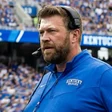
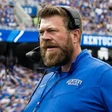
browns/hauck: fatten the face too, not just the build
The first pass widened the jaw a little and left the head reading lean on a
heavy body. The face recipe now does the work: the widening peaks across the
jaw at more than twice its old amplitude and runs on into the neck so the
head does not sit on a collar it has outgrown, a jowl bulge rounds the lower
cheek that stretching alone only squashed, a sag pushes the jaw line down
into the neck for the double chin, and a small cheek bulge fills the hollow
under the cheekbone.

The profile still crosses zero at y=210, above the cheekbones: the eyes, nose
and brow keep their spacing and their distances from each other, which is
what carries the likeness. Everything below it is fair game.

Rebuilt from the pristine frame (restored from the previous commit, per the
XMP guard) rather than stacked on the already-warped one, so the warp is
applied exactly once. Same seeded sweat, same crop boxes, same tear edges;
both cuts, the poster, the face crop and the avatars regenerated. heroes.json
unchanged. No other manager's art is touched.

Full suite: 166 passed, 4 failed -- the same pre-existing
test_preseason_baseline.py failures, unrelated to art.

Claude-Session: https://claude.ai/code/session_016KTu8fbQ7wRjJA6QXnG2px

Changed region(s): [[0.0, 0.2946, 0.7232, 0.75], [0.0536, 0.3214, 0.0804, 0.375]]

diff --git a/scripts/fatten_portrait.py b/scripts/fatten_portrait.py
@@ -294,11 +294,22 @@ RECIPES = {
             # Belly. Centred on his near side, where the gut actually sits.
             ("bulge", dict(cx=372, cy=800, rx=340, ry=310, power=1.22)),
             ("sag", dict(cx=360, cy=830, rx=300, ry=250, amp=18)),
-            # Jowls and neck only -- amp is 0 at y=212, above the cheekbones,
-            # so the eyes, nose and brow keep their spacing and he stays him.
-            ("hwiden", dict(cx=392, half=95, feather=95,
-                            amp_y=[(212, 0.0), (275, 0.08), (335, 0.12),
-                                   (400, 0.12), (470, 0.0)])),
+            # FACE. Amp is 0 at y=210, above the cheekbones, so the eyes,
+            # nose and brow keep their spacing and their distances from each
+            # other -- that is what carries the likeness. Everything below it
+            # is fair game: the widening peaks across the jaw and runs on into
+            # the neck, so the head does not sit on a collar it has outgrown.
+            ("hwiden", dict(cx=400, half=118, feather=105,
+                            amp_y=[(210, 0.0), (262, 0.16), (322, 0.32),
+                                   (392, 0.36), (445, 0.26), (495, 0.0)])),
+            # Jowls: rounds the jaw and lower cheek that the widening only
+            # stretched. Widening alone reads as a squashed photo; the bulge
+            # is what makes it read as weight.
+            ("bulge", dict(cx=404, cy=328, rx=128, ry=104, power=1.28)),
+            # The double chin -- the jaw line pushed down into the neck.
+            ("sag", dict(cx=408, cy=376, rx=100, ry=70, amp=24)),
+            # Cheek, small: fills the hollow under the cheekbone.
+            ("bulge", dict(cx=392, cy=266, rx=92, ry=70, power=1.14)),
         ],
         # Forehead + the temple beside it. Deliberately stops above the eye:
         # a bead placed at the outer eye corner runs down the cheek and reads
